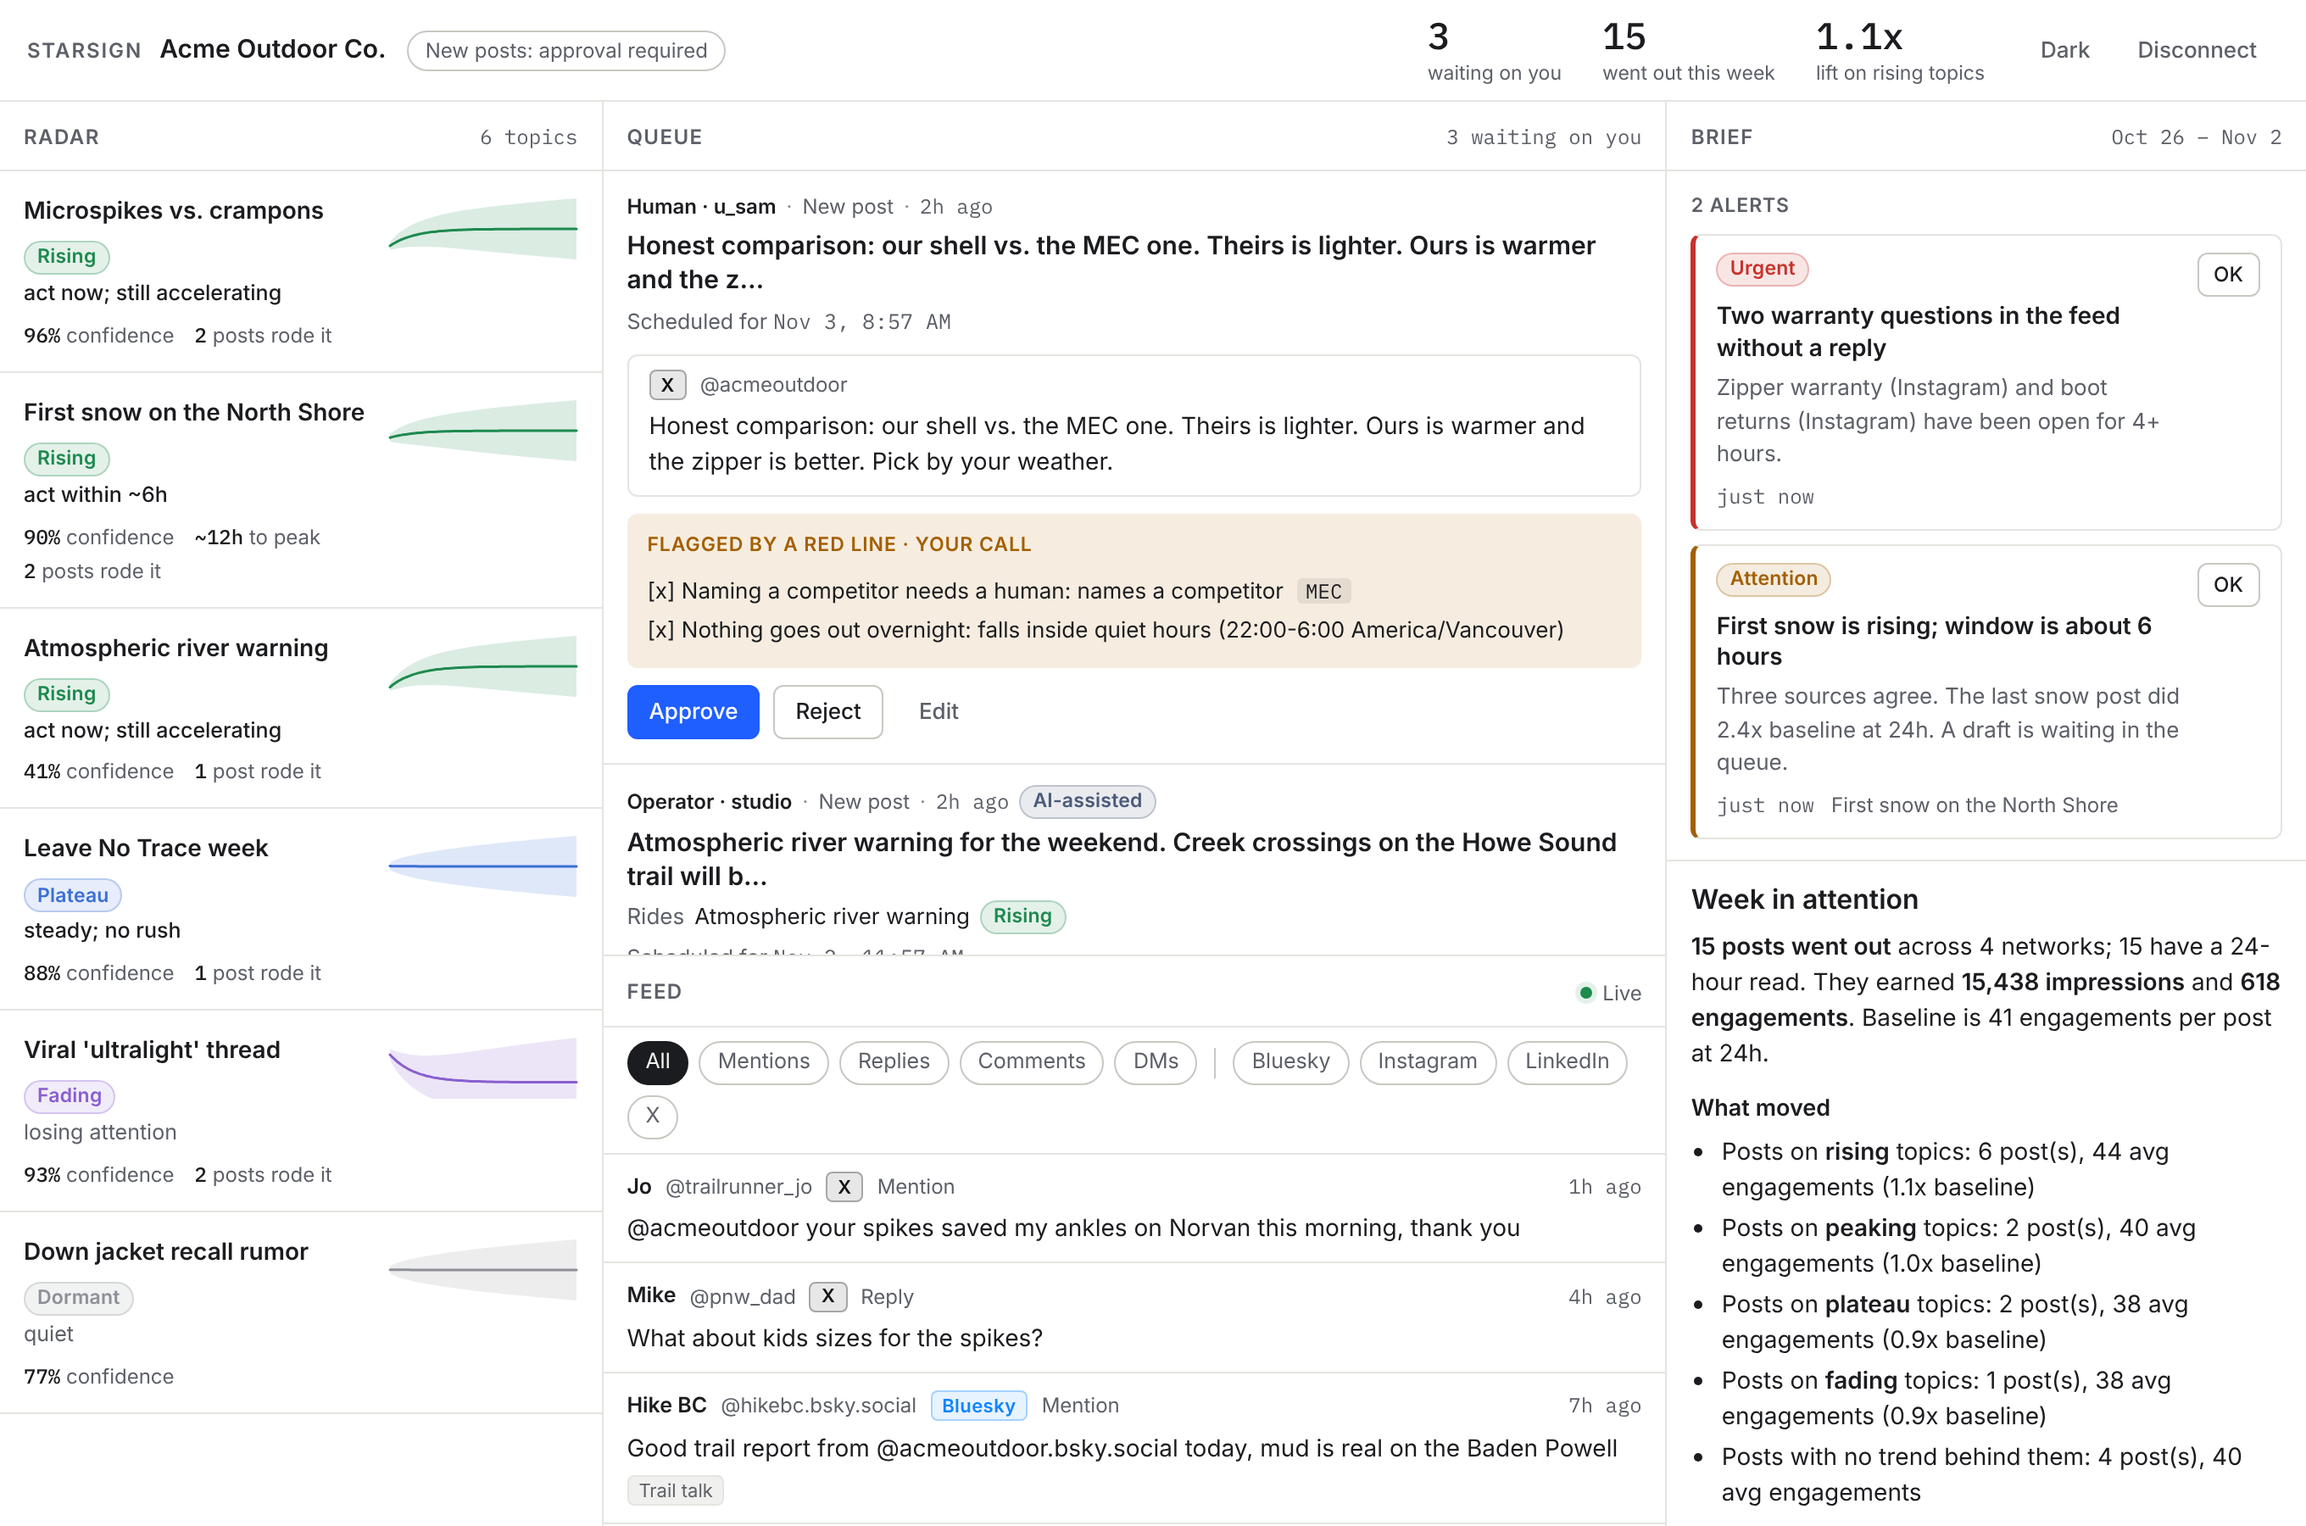
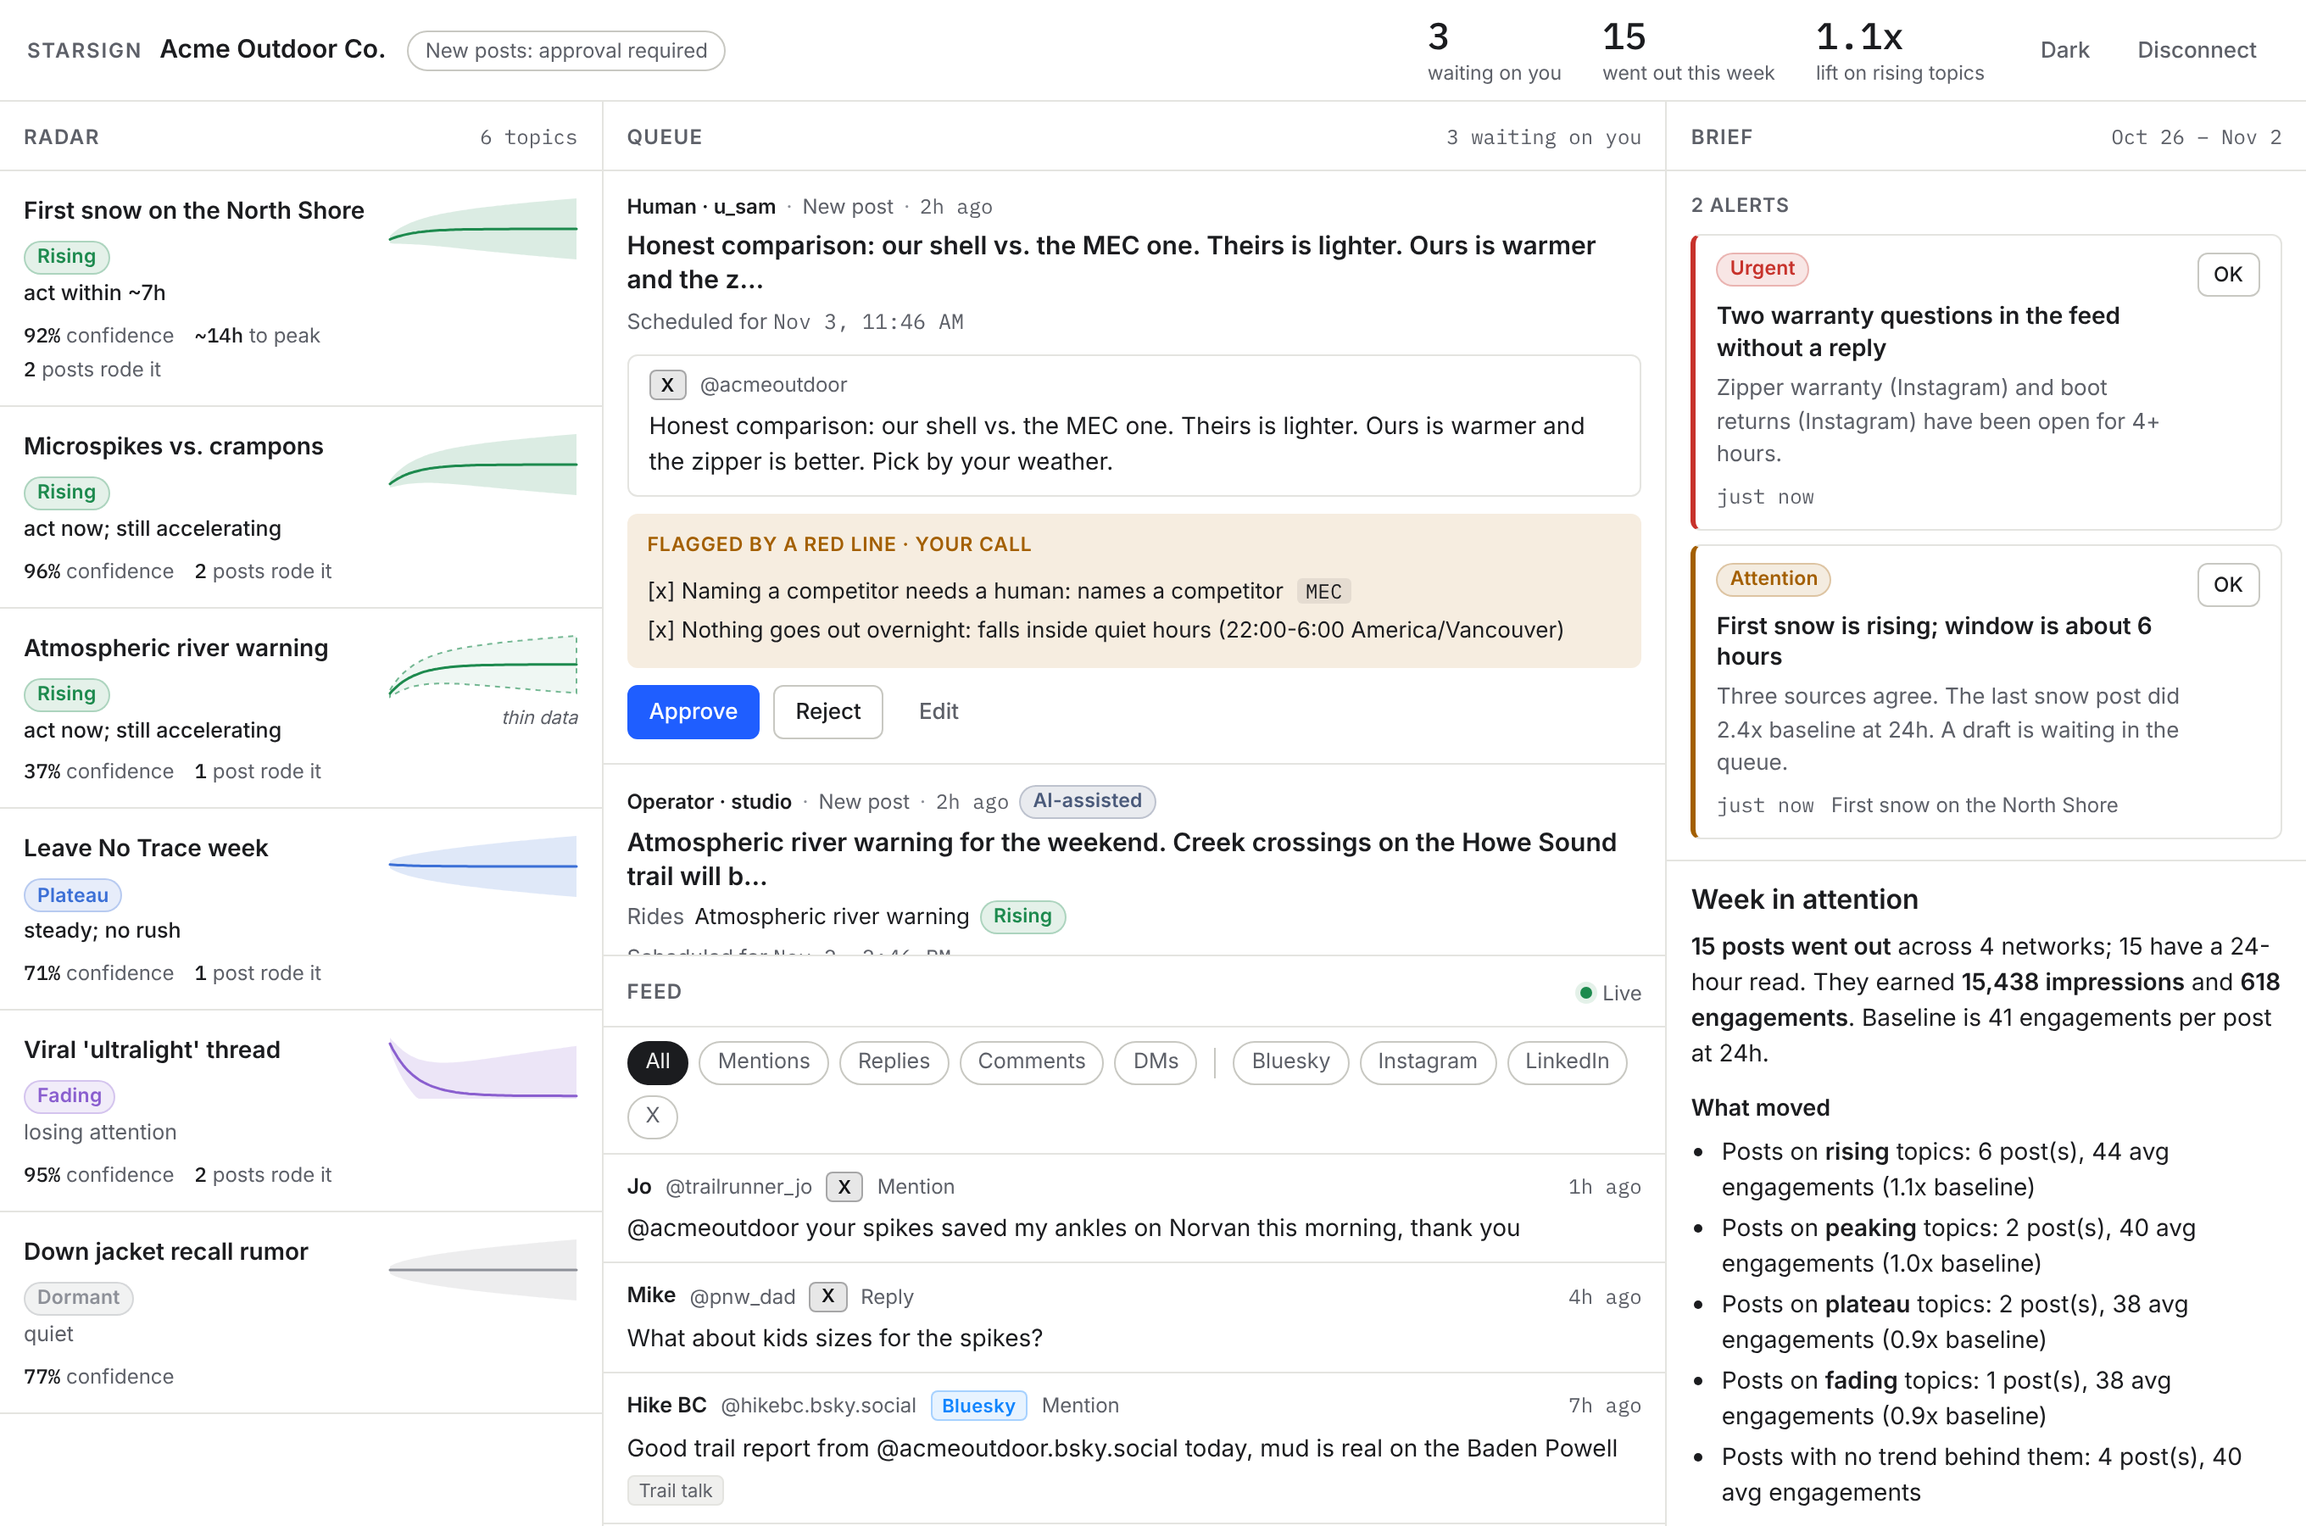
Regression tests for the review fixes, review record, invariants 7-9
Claude-Session: https://claude.ai/code/session_01M3j3s9LyC7BFMMvCGQDSnS

diff --git a/apps/api/test/api.test.ts b/apps/api/test/api.test.ts
@@ -114,3 +114,55 @@ describe("api", () => {
     expect(bad.status).toBe(400);
   });
 });
+
+describe("review regressions", () => {
+  it("agent keys never pass role gates: accounts, profile, global topics, keys", async () => {
+    expect((await app.request("/v1/accounts", { method: "POST", headers: auth(agentKey), body: JSON.stringify({ network: "x", externalId: "9", handle: "h", connector: "mock" }) })).status).toBe(403);
+    expect((await app.request(`/v1/accounts/${acctId}`, { method: "DELETE", headers: auth(agentKey) })).status).toBe(403);
+    expect((await app.request("/v1/workspace/profile", { method: "PATCH", headers: auth(agentKey), body: JSON.stringify({ profile: { description: "pwned" } }) })).status).toBe(403);
+    expect((await app.request("/v1/trends/topics", { method: "POST", headers: auth(agentKey), body: JSON.stringify({ name: "G", keywords: ["g"], global: true }) })).status).toBe(403);
+    expect((await app.request("/v1/keys", { headers: auth(agentKey) })).status).toBe(403);
+    const keys = await json(await app.request("/v1/keys", { headers: auth(ownerKey) }));
+    expect(keys.some((k: { keyHash?: string }) => "keyHash" in k)).toBe(false);
+  });
+
+  it("schedule requires a time; malformed JSON is a 400; cancel is denied to agents on others' posts", async () => {
+    const created = await json(await app.request("/v1/posts", { method: "POST", headers: auth(ownerKey), body: JSON.stringify({ body: "d", variants: [{ socialAccountId: acctId, text: "draft" }] }) }));
+    expect((await app.request(`/v1/posts/${created.post.id}/schedule`, { method: "POST", headers: auth(ownerKey), body: JSON.stringify({}) })).status).toBe(400);
+    expect((await app.request(`/v1/posts/${created.post.id}/schedule`, { method: "POST", headers: auth(ownerKey), body: "{not json" })).status).toBe(400);
+    expect((await app.request(`/v1/posts/${created.post.id}/cancel`, { method: "POST", headers: auth(agentKey) })).status).toBe(403);
+    expect((await app.request(`/v1/posts/${created.post.id}/cancel`, { method: "POST", headers: auth(ownerKey) })).status).toBe(200);
+  });
+
+  it("a blocked approval edit is not persisted and the 422 carries violations", async () => {
+    const created = await json(await app.request("/v1/posts", { method: "POST", headers: auth(agentKey), body: JSON.stringify({ body: "ok", variants: [{ socialAccountId: acctId, text: "clean text" }] }) }));
+    const vid = created.variants[0].id;
+    const res = await app.request(`/v1/posts/${created.post.id}/decide`, { method: "POST", headers: auth(ownerKey), body: JSON.stringify({ decision: "approve", edits: { [vid]: "guaranteed win" } }) });
+    expect(res.status).toBe(422);
+    const body = await json(res);
+    expect(body.error.details.violations[0].redLineId).toBe("g");
+    const after = await json(await app.request(`/v1/posts/${created.post.id}`, { headers: auth(ownerKey) }));
+    expect(after.variants[0].text).toBe("clean text");
+    expect(after.post.status).toBe("pending_approval");
+    const ctx = await json(await app.request("/v1/context", { headers: auth(ownerKey) }));
+    expect(ctx.voiceExamples.some((v: { after: string }) => v.after === "guaranteed win")).toBe(false);
+  });
+
+  it("metrics series and topics are workspace-scoped; stream tokens are single use", async () => {
+    const other = await m.workspaces.create({ slug: "other", name: "Other", timezone: "UTC" }, { type: "human", id: "u9" });
+    const otherTopic = await m.trends.createTopic({ workspaceId: other.id, name: "theirs", keywords: ["t"] });
+    expect((await app.request(`/v1/trends/topics/${otherTopic.id}`, { headers: auth(ownerKey) })).status).toBe(404);
+    expect((await app.request("/v1/trends/points", { method: "POST", headers: auth(ownerKey), body: JSON.stringify({ points: [{ topicId: otherTopic.id, source: "manual", value: 1, observedAt: new Date().toISOString() }] }) })).status).toBe(404);
+    expect((await app.request("/v1/metrics/series?entityType=post_variant&entityId=nope&metric=impressions", { headers: auth(ownerKey) })).status).toBe(404);
+    expect((await app.request(`/v1/metrics/series?entityType=workspace&entityId=${other.id}&metric=impressions`, { headers: auth(ownerKey) })).status).toBe(404);
+
+    // A strict app (no dev workspace): the API key is never accepted in a URL, tokens are single use.
+    const strict = createApp(m);
+    expect((await strict.request("/v1/feed/stream?key=" + encodeURIComponent(ownerKey))).status).toBe(401);
+    const tok = await json(await strict.request("/v1/feed/stream-token", { method: "POST", headers: auth(ownerKey) }));
+    expect(tok.token).toMatch(/^[A-Za-z0-9_-]{20,}$/);
+    const first = await strict.request(`/v1/feed/stream?token=${tok.token}`);
+    expect(first.status).toBe(200);
+    expect((await strict.request(`/v1/feed/stream?token=${tok.token}`)).status).toBe(401);
+  });
+});

diff --git a/packages/forecast/test/forecast.test.ts b/packages/forecast/test/forecast.test.ts
@@ -108,3 +108,19 @@ describe("forecastTopic", () => {
     expect(r.curve).toEqual([]);
   });
 });
+
+describe("honest confidence", () => {
+  it("two observations never look like a day of data, future points are ignored, stale data is discounted", () => {
+    const two = forecastTopic([{ source: "manual", points: [{ t: T0, v: 10 }, { t: T0 + 30 * H, v: 50 }] }], { now: T0 + 31 * H });
+    expect(two.observedBuckets).toBe(2);
+    expect(two.confidence).toBeLessThan(0.25);
+    const future = forecastTopic([{ source: "manual", points: [{ t: T0 + 100 * H, v: 1 }, { t: T0 + 101 * H, v: 2 }] }], { now: T0 });
+    expect(future.curve).toEqual([]);
+    expect(Number.isFinite(future.confidence)).toBe(true);
+    const fresh = forecastTopic([{ source: "google_trends", points: synth(48, (i) => 20 + i * 2, 1, 0) }], { now: T0 + 48 * H });
+    const stale = forecastTopic([{ source: "google_trends", points: synth(48, (i) => 20 + i * 2, 1, 0) }], { now: T0 + 48 * H + 30 * H });
+    expect(stale.staleHours).toBe(31);
+    expect(stale.confidence).toBeLessThan(fresh.confidence);
+    expect(stale.combined[stale.combined.length - 1]!.t).toBe(T0 + 47 * H); // grid ends at the last observation, not at now
+  });
+});

diff --git a/packages/policy/test/policy.test.ts b/packages/policy/test/policy.test.ts
@@ -124,3 +124,11 @@ describe("gate", () => {
     expect(g.initialStatus).toBe("scheduled");
   });
 });
+
+describe("cadence counting", () => {
+  it("counts the all-network total once when the red line has no network list", () => {
+    const p: Policy = { ...DEFAULT_POLICY, redLines: [{ id: "m", kind: "max_posts_per_day", description: "cap", severity: "block", limit: 4, networks: [] }] };
+    expect(evaluateSubject(p, { network: "x", text: "a", scheduledAt: null }, { postsToday: { x: 2, "*": 2 } }).verdict).toBe("allow");
+    expect(evaluateSubject(p, { network: "x", text: "a", scheduledAt: null }, { postsToday: { x: 2, bluesky: 2, "*": 4 } }).verdict).toBe("block");
+  });
+});

diff --git a/docs/REVIEW.md b/docs/REVIEW.md
@@ -1,0 +1,68 @@
+# Review record, 2026-11-02
+
+An adversarial review ran over the whole codebase: nine finders (tenancy/auth, gate and approvals, publishing,
+ledger and data, forecast math, API contract, operators and model gateway, connectors, web) and two skeptics per
+finding (does it reproduce, does it matter). Sixty-seven agents completed; eighty failed mid-run when the account's
+usage credits ran out, so a third of the findings were judged by hand instead of by two independent verifiers.
+
+## Fixed
+
+Tenancy and authorization
+- Role gates (`requireRole`) now fail closed for agent keys. An MCP or operator key could connect/disconnect
+  accounts, rewrite the brand profile and create global topics. Keys can be listed and revoked (`/v1/keys`).
+- Topics are workspace-scoped on every read and write; global topics are written only by the system.
+- `GET /v1/metrics/series` resolves the entity inside the caller's workspace first (the metrics table has no
+  workspace column). Feed imports check the account belongs to the caller.
+- Cancelling, editing and scheduling existing posts check roles and autonomy; agents may only touch their own.
+- The SSE stream no longer accepts the API key in a URL. The web app mints a 60-second single-use stream token.
+- The MCP HTTP server requires a bearer on every request; no process-wide fallback key.
+
+The gate and approvals
+- Approval edits are validated and re-gated in memory before anything is persisted, so a blocked edit never
+  becomes stored text or a voice example. The 422 carries `details: { violations }`.
+- `POST /v1/posts/:id/schedule` requires a time (a missing `at` used to mean "now"). Malformed JSON is a 400.
+- `max_posts_per_day` without a network list counted the total twice.
+
+Publishing
+- Status transitions are conditional: a cancel that lands while publishing is in flight wins and is never
+  overwritten. A thread that fails after its root went out keeps the root's ids on the variant.
+- X tokens refresh proactively near expiry and reactively on 401, and the refreshed blob is persisted.
+- Connector resolution is strict (no silent fallback to another adapter); the mock connector is not registered
+  in production unless `STARSIGN_ENABLE_MOCK=1`.
+- The in-process timer scheduler re-arms instead of firing early for delays beyond ~24.8 days.
+
+Measurement and ledger
+- Metered X reads are priced on every path (ingest and outcome capture) and paused at the workspace cap.
+- Exports include metrics (they were filtered by the wrong id). Raw-event hashes include the workspace.
+- Forward paging of the ledger (`afterSeq`) walks oldest-first.
+- A post's 24h outcome on a topic sums its variants instead of picking one.
+
+Forecast honesty
+- Confidence counts real observations, not interpolated grid buckets; two points can never look like a day.
+- The grid ends at the last observation instead of being carried forward to now (which manufactured plateaus);
+  staleness is reported and discounts confidence. Future-dated and non-finite points are ignored.
+- Sparse count sources normalize by their mean, not a near-zero median.
+
+Web room
+- The post history reads the ledger's real keys (`outcome`, `metrics`); approvals no longer all read as
+  "changes requested" and outcome lines show their numbers.
+- Topic charts show what their labels say (first 24 hours of forecast, last 48 hours of each source).
+- Approve is disabled while an edited variant exceeds its network's limit (the server validates too).
+- Feed refreshes merge by id and ignore late responses from a previous filter.
+
+Operators and gateway
+- The weekly brief is not retried every minute after a failure (six-hour backoff).
+- The per-workspace model spend cap is enforced before each run. Unknown model ids are flagged once.
+
+## Deliberately left as is
+- Semantic red lines (the Steward) fire on the second evaluation unless primed; the Watch primes its own drafts.
+  Humans' and agents' first submissions are caught at approval or re-gate. Documented in code.
+- Idempotency for Bluesky and X is process-local; a restart may re-post a half-finished thread. The root id is
+  now persisted, which bounds the damage; durable progress belongs with the first real credentials.
+- Zernio is an unverified scaffold (its docs were unreachable from the build sandbox).
+- `xWeightedLength` approximates X's weighting (emoji and symbols count 2; bare domains without a scheme do not
+  count as links).
+
+## Not yet verified by a second reader
+The unverified findings that were not fixed are in the workflow output and are mostly duplicates of fixed items or
+judgment calls listed above. Re-run the review once credits allow: `docs/REVIEW.md` is the place to extend.

diff --git a/docs/ARCHITECTURE.md b/docs/ARCHITECTURE.md
@@ -82,3 +82,6 @@ everything it proposes. If it needs a new prompt, add one to `packages/ai/src/pr
 4. Every ledger event names an actor.
 5. Every forecast carries a band and a confidence; thin data is visibly thin.
 6. Everything a workspace owns comes out of `GET /v1/export`.
+7. Role gates are for humans; agent keys never pass them. Agents act only through the autonomy dial, on their own posts.
+8. Connector resolution is strict and the mock connector never runs in production: a "published" post always touched a network.
+9. API keys never appear in URLs; the live stream uses single-use, sixty-second tokens.

diff --git a/README.md b/README.md
@@ -62,6 +62,11 @@ data-loyal.
 and Key Value, staging from `main`. Postgres needs the `vector` extension; TimescaleDB is used when present and skipped
 when not.
 
+## Review
+
+`docs/REVIEW.md` records the adversarial review that ran over the codebase, what it found, what was fixed and what
+was deliberately left. Invariants worth defending are listed in `docs/ARCHITECTURE.md`.
+
 ## Status
 
 Phase 0 scaffold, built 2026-11-02. Native connectors post for real once credentials exist; platform reviews (Meta,
